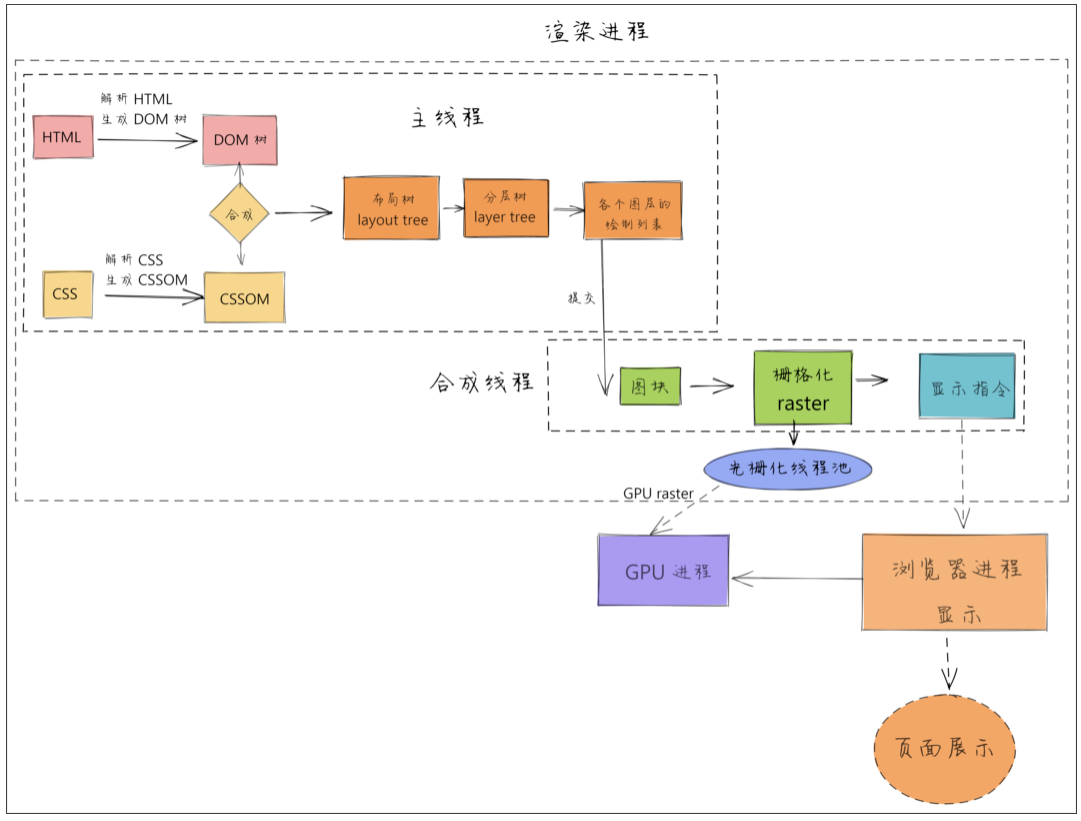
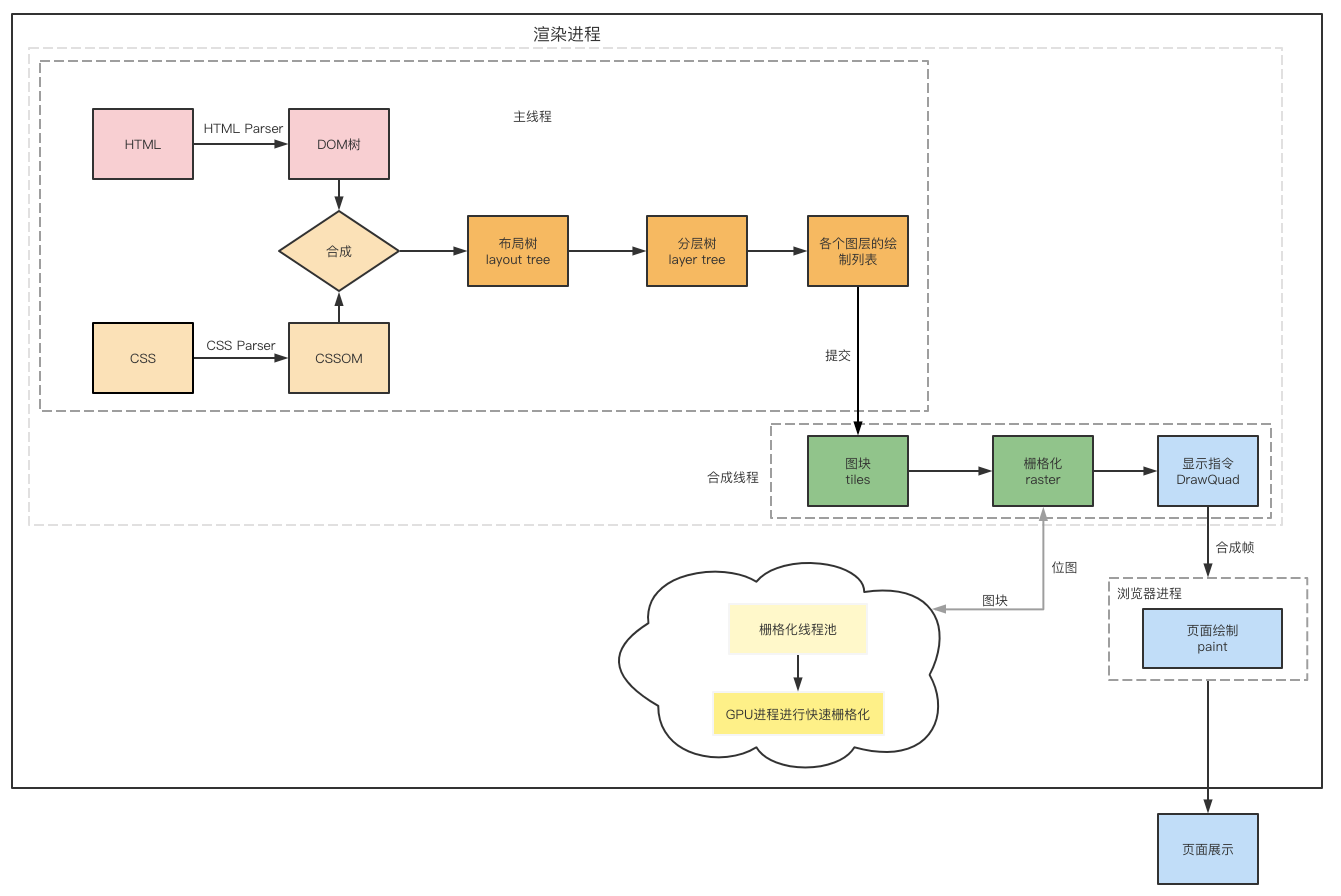
modify render context

diff --git a/browser/render.md b/browser/render.md
@@ -1,13 +1,13 @@
 # 浏览器渲染流程
 
-![](../assets/browser/render/Untitled.png)
+![](../assets/browser//render/Untitled.png)
 
 ## 构建DOM树
 
 为什么要构建DOM树？
 
 <aside>
-浏览器无法直接理解和使用 HTML，需要使用 HTML Parser 转换成浏览器能够理解的DOM树。
+💡 浏览器无法直接理解和使用 HTML，需要使用 HTML Parser 转换成浏览器能够理解的DOM树。
 
 </aside>
 
@@ -15,30 +15,25 @@
 
 输出：DOM 树
 
-处理过程：利用HTML Parser 解析 HTML文档
+处理过程：
 
-```html
-<!DOCTYPE html>
-<html>
-  <head>
-    <meta name="viewport" content="width=device-width,initial-scale=1">
-    <link href="style.css" rel="stylesheet">
-    <title>Critical Path</title>
-  </head>
-  <body>
-    <p>Hello <span>web performance</span> students!</p>
-    <div><img src="awesome-photo.jpg"></div>
-  </body>
-</html>
-```
+1. 读取 HTML 原始字节流，根据文件指定的编码（UTF-8）将他们转换成字符；
+2. 分词器（状态机）将字符流转换成 Token，分为 Tag Token 和文件 Token，Tag Token 分为 startTage 和 endTag；
+3. html 解析器利用栈结构维护 DOM 树之前的父子关系。
 
-![](../assets/browser/render/Untitled1.png)
+我们将整体流程梳理如下：
+
+![](../assets/browser//render/Untitled1.png)
 
 下载不同资源的处理
 
 1）CSS、Imag：HTML 解析继续
 
 2）JavaScript(未设置 async、defer)：由于  JavaScript 拥有修改 DOM 结构的权限，会停止解析直至脚本下载完成。通过预加载扫描器，我们不必等到解析器找到对应的外部资源的引用来请求资源，通过后台检索资源提前下载，这种优化减少了阻塞。
+
+async 与 defer 区别如下：
+
+![](../assets/browser//render/Untitled2.png)
 
 ## 样式计算（Recalculate Style）
 
@@ -50,20 +45,19 @@
     - CSS 转换成 styleSheets(document.styleSheets)
         
         CSS 样式来源的三种方式：
-        ```jsx
+        
         1. 通过 link 引用外部 CSS 样式文件
-        2. <style> 标签内的 CSS 样式
+        2. style 标签内的 CSS 样式
         3. 元素的 style 属性内嵌的 CSS
-        ```
     - 标准化样式表中的属性值
         
-        ![](../assets/browser/render/Untitled2.png)
+        ![](../assets/browser//render/Untitled3.png)
         
     - 计算 DOM 树中每个节点的具体样式(继承与层叠),构建过程与 DOM 类似
         
         Bytes → Characters → Tokens → Nodes → CSSOM
         
-        ![](../assets/browser/render/Untitled3.png)
+        ![](../assets/browser//render/Untitled4.png)
         
 
 ## 布局阶段
@@ -72,18 +66,21 @@
 
 输出：布局树
 
-处理过程：将 DOM 和 CSSOM 合并成一个渲染树, 从 DOM 树的根节点开始遍历每个可见节点
-```jsx
-1. <head>，<script>元素不会渲染输出，所以这些节点会被忽略。
-2. 通过 CSS 隐藏的节点也会被渲染树忽略。display: none 将节点从渲染树中移除导致节点不可见；visibility: hidden 节点仍占据布局空间，将节点渲染成空框让节点不可见。
-```
-对于每个可见节点，找到对应的 CSSOM 规则并应用
-![](../assets/browser/render/Untitled4.png)
+- 处理过程：将 DOM 和 CSSOM 合并成一个渲染树
+    
+    从 DOM 树的根节点开始遍历每个可见节点
+    
+    - head，script 元素不会渲染输出，所以这些节点会被忽略。
+    - 通过 CSS 隐藏的节点也会被渲染树忽略。display: none 将节点从渲染树中移除导致节点不可见；visibility: hidden 节点仍占据布局空间，将节点渲染成空框让节点不可见。
+    
+    对于每个可见节点，找到对应的 CSSOM 规则并应用
+    
+    ![](../assets/browser//render/Untitled5.png)
     
 
 ## 分层
 
-为什么需要图层？
+为什么需要分层？
 
 <aside>
 💡 为了处理复杂的效果，如页面滚动，z-index，需要为特定的节点生成专用图层。页面是二维平面，为了让页面具有三维效果，引入了 z 轴。
@@ -94,10 +91,9 @@
 
 输出：图层树（Layer Tree）
 
-- 处理过程：页面被分成了许多都图层，图层叠加形成最后都页面，每个节点间接或直接属于一个图层
+- 处理过程：页面被分成了许多都图层，图层叠加形成最后的页面，每个节点间接或直接属于一个图层
     
     什么情况下会被提升为单独的图层？
-
     1）拥有[层叠上下文属性](https://developer.mozilla.org/zh-CN/docs/Web/CSS/CSS_Positioning/Understanding_z_index/The_stacking_context)的元素（position、opacity）
     2) 需要剪裁的地方（scroll）
     
@@ -110,19 +106,19 @@
 
 处理过程：
 
-![](../assets/browser/render/Untitled5.png)
+![](../assets/browser//render/Untitled6.png)
 
 ## 栅格化（Raster）
+
+图块、位图（二进制）
 
 输入：图块
 
 输出：位图
 
-处理过程：图层绘制操作由合成线程来完成。主线程提交绘制列表给合成线程。绘制所有的图层内容会产生不必要的开销，所以合成线程会将图层划分为图块(256*256，512*512)，按照视口附近的图块优先生成位图。栅格化指图块转换成位图的过程。
+处理过程：绘制列表只是用来记录绘制顺序和绘制指令的列表，实际的图层绘制操作由合成线程来完成。主线程提交绘制列表给合成线程。绘制所有的图层内容会产生不必要的开销，所以合成线程会将图层划分为图块(256*256，512*512)，按照视口附近的图块优先生成位图。栅格化指图块转换成位图的过程。
 
-![](../assets/browser/render/Untitled6.png)
-
-![](../assets/browser/render/Untitled7.png)
+![](../assets/browser//render/Untitled7.png)
 
 ## 合成与展示（Compositor）
 
@@ -130,20 +126,26 @@
 
 输出：页面
 
-处理流程：合成线程收集位图的信息构建合成帧，通过 IPC 向浏览器进程提交一个渲染帧，浏览器进程将页面内容绘制到内存中，最终展示在页面上。
-
-![](../assets/browser/render/Untitled8.png)
+处理流程：合成线程收集位图的信息构建合成帧，通过 IPC 向浏览器进程提交合成帧和绘制指令，浏览器进程将页面内容绘制到内存中，最终展示在页面上。
 
 ## 重排、重绘、合成
 
 - 重排指由于页面布局，几何属性等发生变化导致的重新渲染
 
-![](../assets/browser/render/Untitled9.png)
+![](../assets/browser//render/Untitled8.png)
 
 - 重绘指元素的风格，外观等不会影响布局的属性发生变化时，导致的重新渲染
 
-![](../assets/browser/render/Untitled10.png)
+![](../assets/browser//render/Untitled9.png)
 
 - 合成
 
-![](../assets/browser/render/Untitled11.png)
+![](../assets/browser//render/Untitled10.png)
+
+参考链接：
+
+![](../assets/browser//render/Untitled11.png)
+
+![](../assets/browser//render/Untitled12.png)
+
+极客时间
